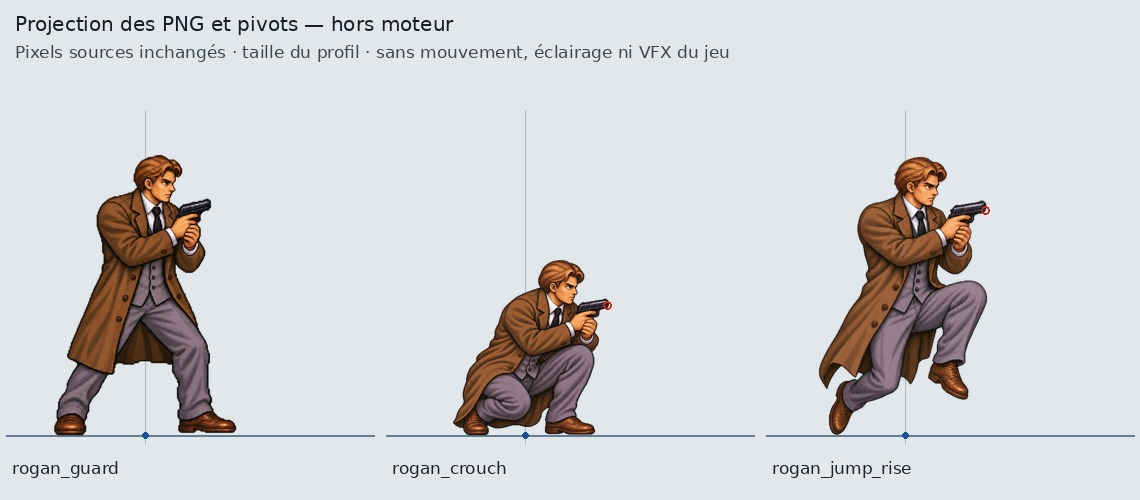
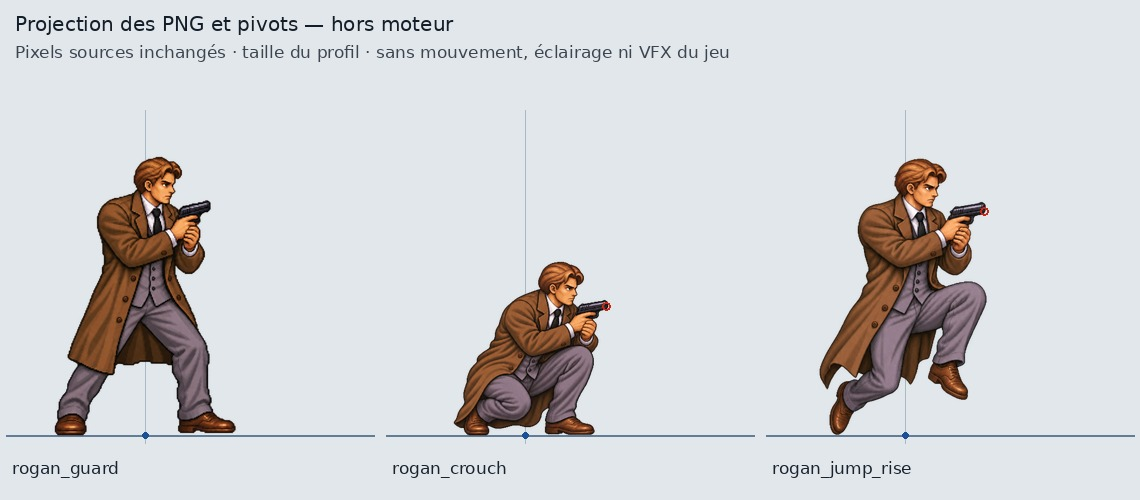
Calibrer la projection de contrôle de Rogan sur sa hauteur réelle
Utiliser les 278 pixels du profil au lieu de l’arrondi à 280 dans la planche de revue hors moteur. Les quatre autres planches, PNG sources, scripts de jeu, manifeste runtime et PCK restent inchangés.

diff --git a/scripts/review_motion_alignment.py b/scripts/review_motion_alignment.py
@@ -9,7 +9,7 @@ OUT=ROOT/"docs/dossier_curien/saga/production/motion_2026-11-19/qa_projection"
 OUT.mkdir(parents=True,exist_ok=True)
 manifest=json.loads((ROOT/"data/assets/dossier_curien_motion.json").read_text())
 assets={entry["id"]:entry for entry in manifest["assets"]}
-heights={"linda":261,"rogan":280,"zobio":300,"zobiko":252,"stick":282,"rikiya":284}
+heights={"linda":261,"rogan":278,"zobio":300,"zobiko":252,"stick":282,"rikiya":284}
 font=ImageFont.truetype("DejaVuSans.ttf",17)
 titlefont=ImageFont.truetype("DejaVuSans.ttf",20)
 
